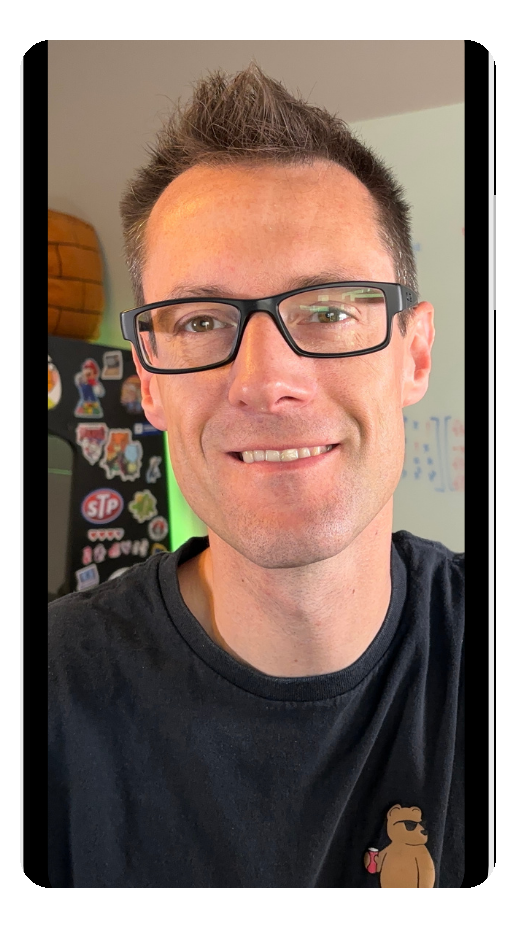
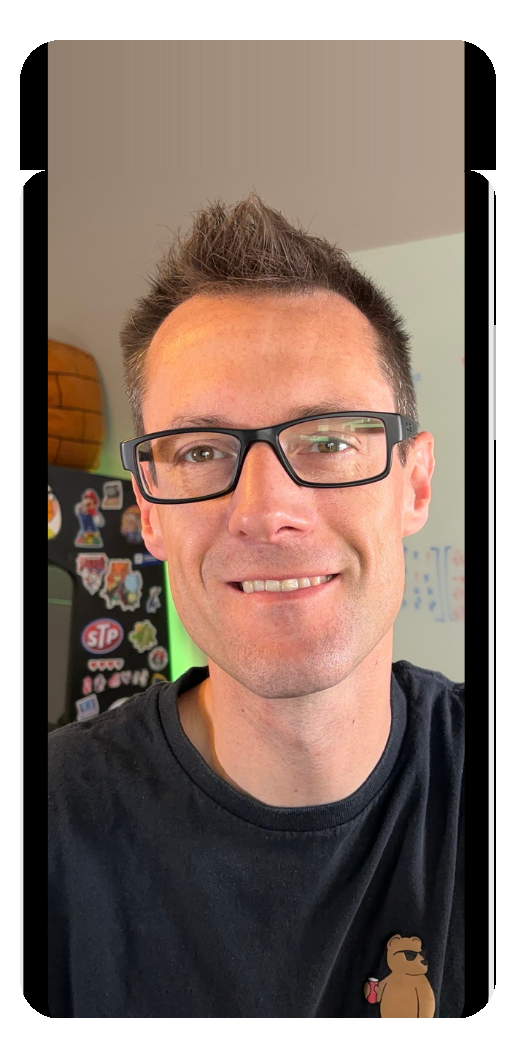
Site fixes: keep slot explainer visible, bleed service art to card edges, add headroom to headshot
- SlotMachine: explainer box no longer hides during spins; text swaps after the reels land
- Services: service-art bleeds to the card top and side edges (home + /services)
- About: adam-photo.png extended upward 130px so the head is clear of the top edge

diff --git a/src/app/src/components/SlotMachine.vue b/src/app/src/components/SlotMachine.vue
@@ -68,7 +68,6 @@ const strip: System[] = Array.from({ length: REPS }, () => pool).flat()
 const currentPair = ref<Pair>(pairs[0] as Pair)
 const pairIndex = ref(0)
 const spinning = ref(false)
-const explainerVisible = ref(true)
 const paused = ref(false)
 const reduced = ref(false)
 
@@ -185,7 +184,6 @@ async function spin(): Promise<void> {
   if (spinning.value) return
   clearNextTimer()
   spinning.value = true
-  explainerVisible.value = false
 
   // Pick a new pair, different from the one showing.
   let nextIndex = pairIndex.value
@@ -203,7 +201,6 @@ async function spin(): Promise<void> {
 
   currentPair.value = nextPair
   pairIndex.value = nextIndex
-  explainerVisible.value = true
   spinning.value = false
   scheduleNext(5000)
 }
@@ -282,14 +279,12 @@ onUnmounted(() => {
         {{ currentPair.left }} plus {{ currentPair.right }}: {{ currentPair.explainer }}
       </p>
 
-      <Transition name="fade-slide" mode="out-in">
-        <div v-if="explainerVisible" :key="pairIndex" class="slot-explainer">
-          <p>
-            <strong>{{ currentPair.left }} + {{ currentPair.right }}</strong> &mdash;
-            {{ currentPair.explainer }}
-          </p>
-        </div>
-      </Transition>
+      <div class="slot-explainer">
+        <p>
+          <strong>{{ currentPair.left }} + {{ currentPair.right }}</strong> &mdash;
+          {{ currentPair.explainer }}
+        </p>
+      </div>
 
       <div class="slot-controls">
         <button class="btn btn-primary" type="button" :disabled="spinning" @click="spin">

diff --git a/src/app/src/style.css b/src/app/src/style.css
@@ -231,16 +231,15 @@ section[id] { scroll-margin-top: 84px; }
 
 /* Services */
 .service-art {
-  background: #f4f6fb;
-  border-radius: 10px;
-  padding: 14px;
-  margin-bottom: 18px;
+  margin: -26px -26px 18px;
+  padding: 0;
+  border-radius: var(--radius) var(--radius) 0 0;
+  overflow: hidden;
 }
 .service-art img {
   display: block;
   width: 100%;
-  height: 150px;
-  object-fit: contain;
+  height: auto;
 }
 
 /* Tech logos */
@@ -652,10 +651,6 @@ section[id] { scroll-margin-top: 84px; }
   flex-wrap: wrap;
 }
 .slot-cta { text-align: center; margin-top: 1.5em; }
-.fade-slide-enter-active { transition: opacity 0.4s ease, transform 0.4s ease; }
-.fade-slide-enter-from { opacity: 0; transform: translateY(8px); }
-.fade-slide-leave-active { transition: opacity 0.15s ease; }
-.fade-slide-leave-to { opacity: 0; }
 
 /* Reviews */
 .review-quote { font-size: 1.15rem; }
@@ -843,5 +838,4 @@ section[id] { scroll-margin-top: 84px; }
 @media (prefers-reduced-motion: reduce) {
   html { scroll-behavior: auto; }
   .term-cursor { animation: none; }
-  .fade-slide-enter-active, .fade-slide-leave-active { transition: none; }
 }

diff --git a/src/app/src/views/AboutView.vue b/src/app/src/views/AboutView.vue
@@ -9,7 +9,7 @@ import { RouterLink } from 'vue-router'
       <h1>You work directly with the engineer solving the problem.</h1>
       <p class="lede">.EXE is a small, hands-on technology consultancy in Burlington, Ontario. No account managers or sales teams &mdash; you talk directly to the engineer doing the work.</p>
       <blockquote class="about-quote">
-        <img class="about-photo" src="/adam-photo.png" alt="Adam Stirtan" width="150" height="270" />
+        <img class="about-photo" src="/adam-photo.png" alt="Adam Stirtan" width="150" height="307" />
         <div>
           <p>&ldquo;I&rsquo;ve spent my career turning complicated technology problems into software that people can actually use &mdash; across software development, cloud infrastructure, automation, and AI.&rdquo;</p>
           <cite>&mdash; Adam Stirtan, founder of .EXE</cite>

diff --git a/src/app/src/components/AboutSection.vue b/src/app/src/components/AboutSection.vue
@@ -24,7 +24,7 @@ import { RouterLink } from 'vue-router'
       </div>
       <p class="section-more"><RouterLink to="/about">More about .EXE &rarr;</RouterLink></p>
       <blockquote class="about-quote">
-        <img class="about-photo" src="/adam-photo.png" alt="Adam Stirtan" width="150" height="270" />
+        <img class="about-photo" src="/adam-photo.png" alt="Adam Stirtan" width="150" height="307" />
         <div>
           <p>&ldquo;I&rsquo;ve spent my career turning complicated technology problems into software that people can actually use &mdash; across software development, cloud infrastructure, automation, and AI.&rdquo;</p>
           <cite>&mdash; Adam Stirtan, founder of .EXE</cite>
